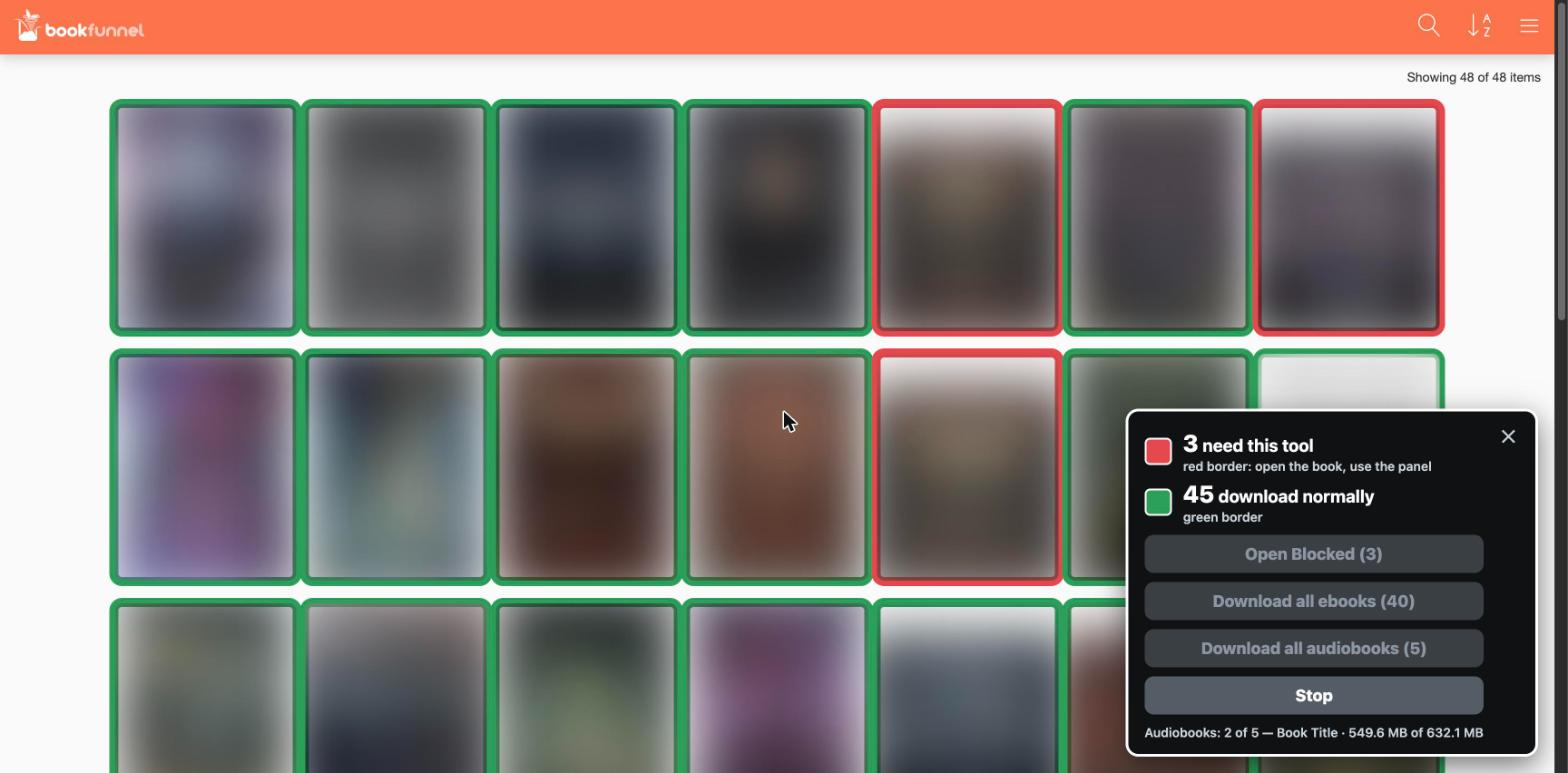
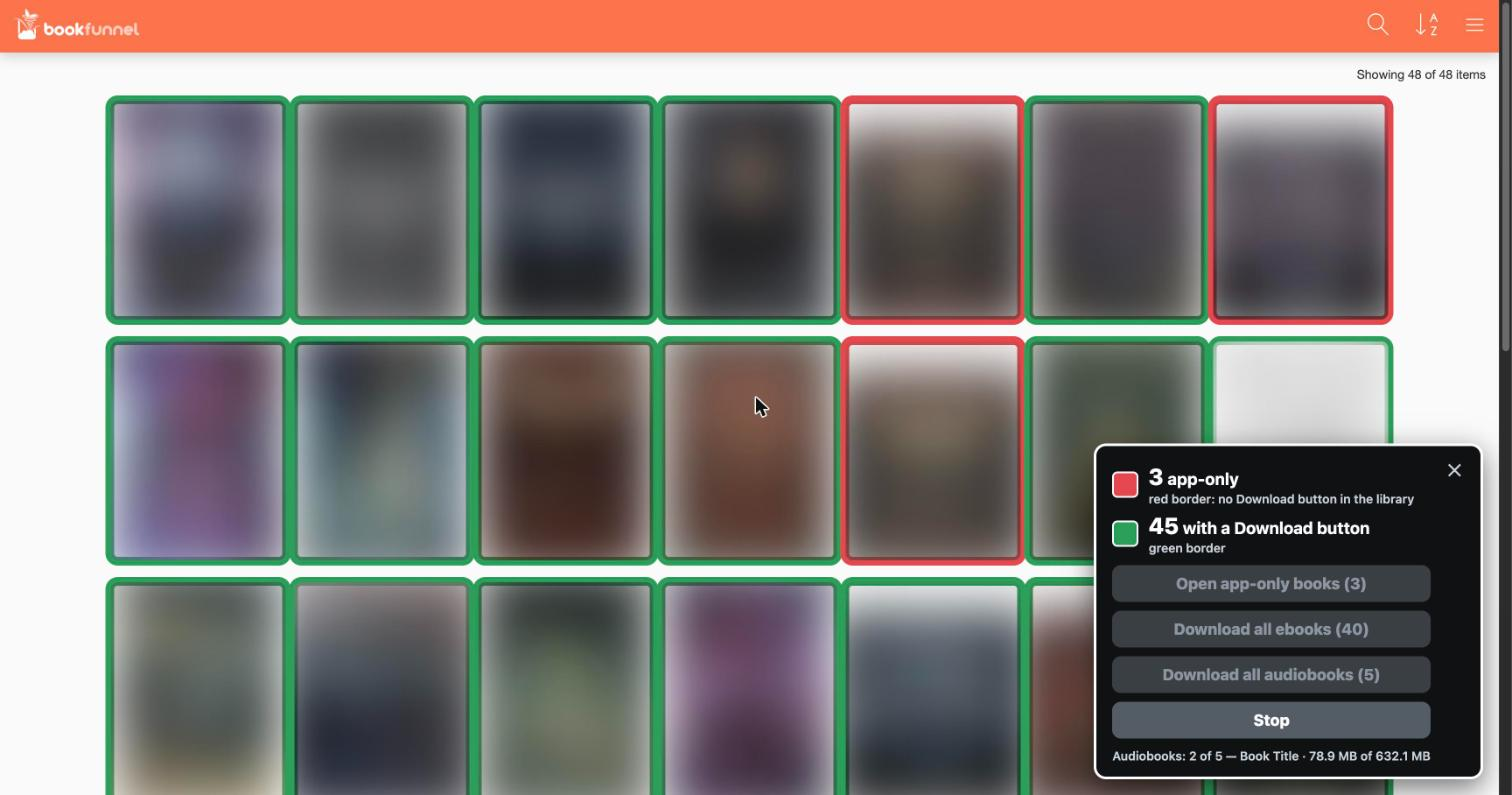
Retake the library and bulk-download screenshots with the current labels
The earlier images showed the pre-1.0.3 wording on the library key. Titles,
authors and covers are blurred or replaced. Documentation only.

diff --git a/CHANGELOG.md b/CHANGELOG.md
@@ -4,6 +4,12 @@ All notable changes are listed here. The format follows
 [Keep a Changelog](https://keepachangelog.com/en/1.1.0/) and the project uses
 [Semantic Versioning](https://semver.org/).
 
+## [Unreleased]
+
+### Changed
+- The library, confirm-step and bulk-download screenshots were retaken with the
+  current labels. Book titles, authors and covers are blurred or replaced.
+
 ## [1.0.4] - 2026-10-30
 
 ### Changed
